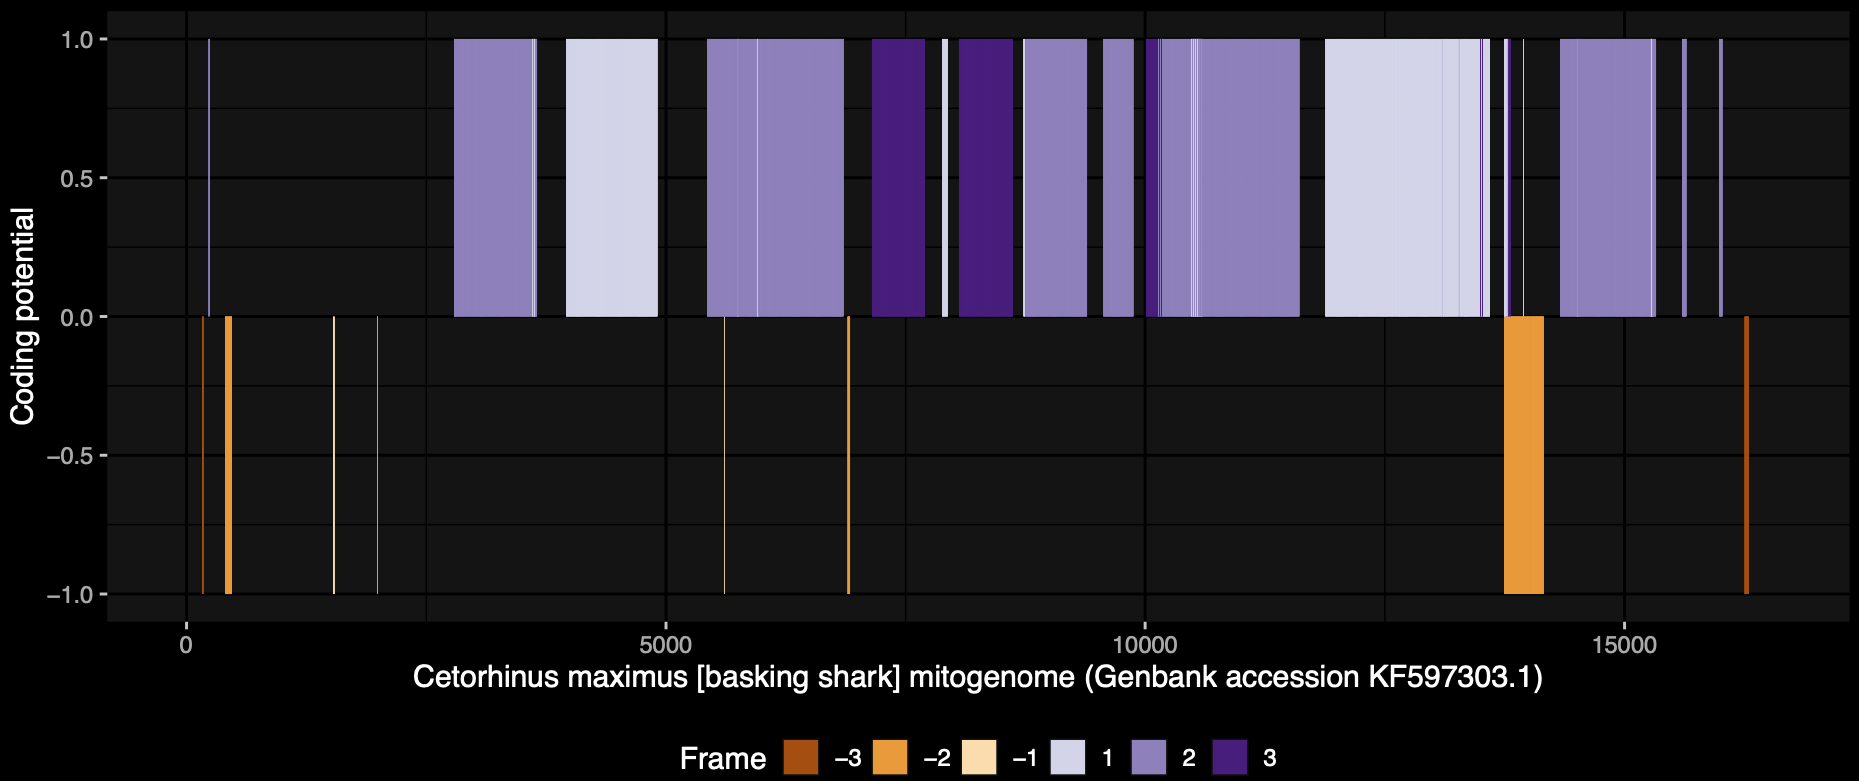
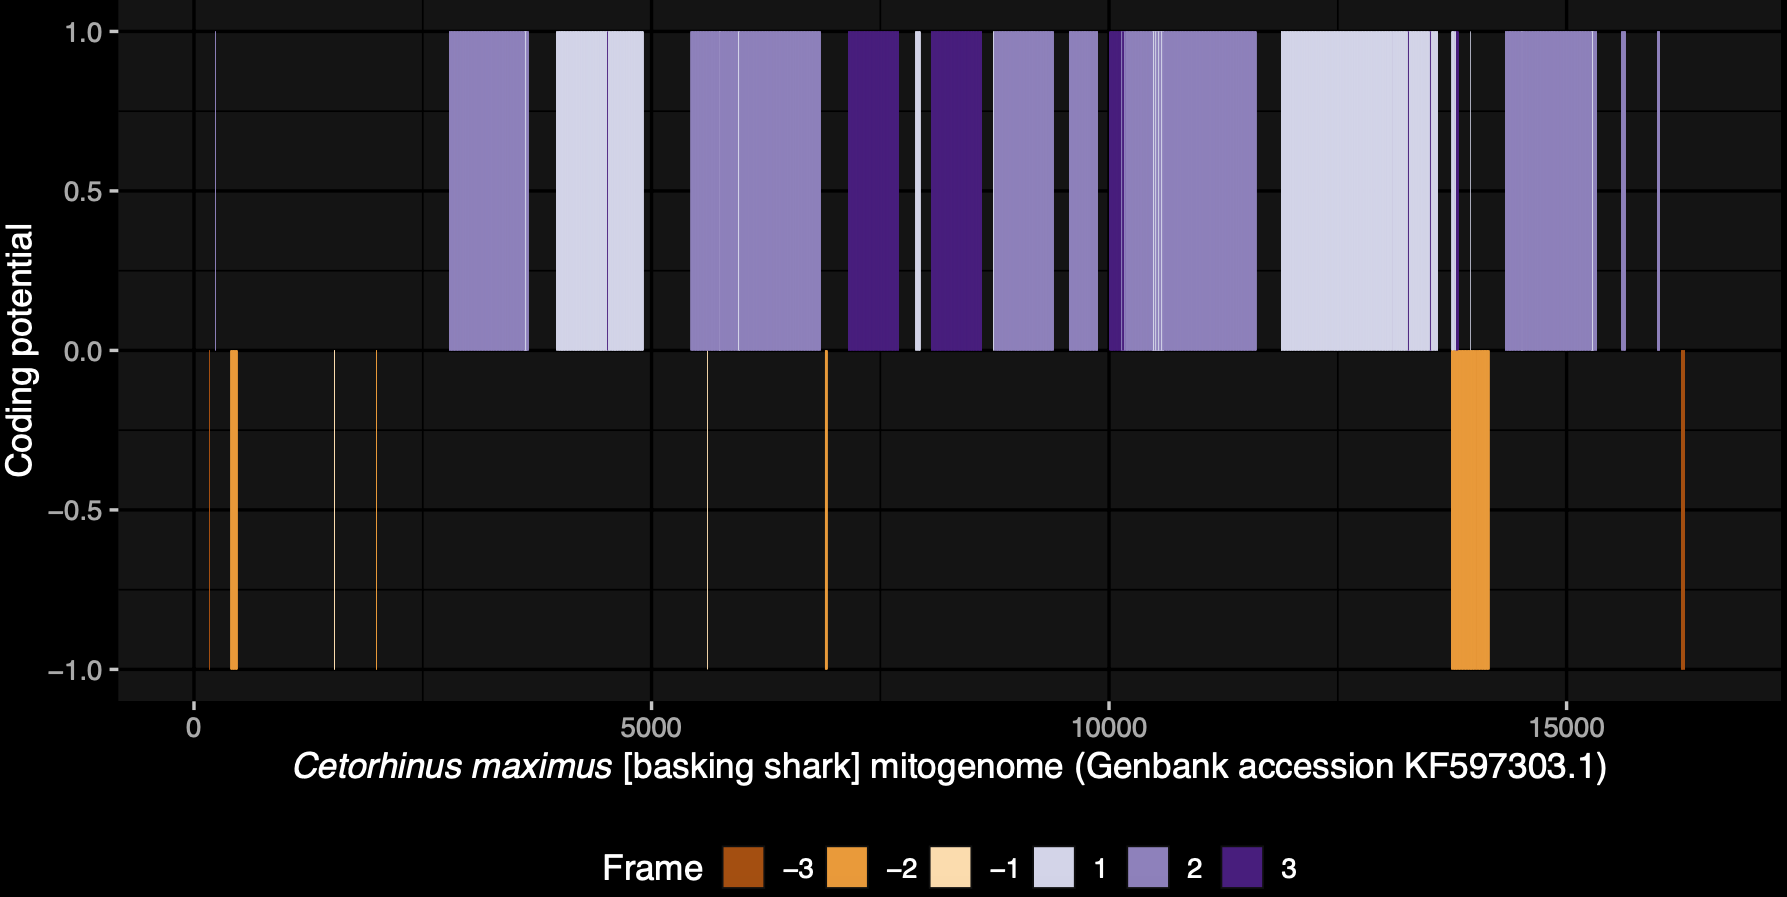
update sample plot

diff --git a/README.md b/README.md
@@ -216,17 +216,18 @@ This example predicted coding potential regions is depicted using -k 150 on C. m
 
 R code to generate similar plots
 <pre>
-##coding potential plots
+#coding potential plots
 
 library(ggplot2)
 library(ggdark)
 
-df <- read.table('/Users/rwarren/Documents/GitHub/peekseq/testdata/peekseq_v0.0.1-f_CEMA.fa.gz-k150-frameKmers.tsv', sep="\t", header = TRUE)
+df <- read.table('peekseq_v0.0.1-f_CEMA.fa.gz-k150-frameKmers.tsv', sep="\t", header = TRUE)
+my_x_title <- expression(paste(italic("Cetorhinus maximus"), " [basking shark] mitogenome (Genbank accession KF597303.1)"))
 
 p<-ggplot(df, aes(y=coding, x=position, fill = factor(frame))) +
   geom_col() + 
   scale_fill_manual(values = c("#b35806","#f1a340","#fee0b6","#d8daeb","#998ec3","#542788")) +
-  xlab("Cetorhinus maximus [basking shark] mitogenome (Genbank accession KF597303.1)") +ylim(-1,1)+ ylab("Coding potential") + dark_theme_gray(base_size = 14)  # Default
+  ylim(-1,1) + labs(x=my_x_title) + ylab("Coding potential") + dark_theme_gray(base_size = 14)  # Default
 p + theme(legend.position = "bottom") + guides(fill = guide_legend(title = "Frame", nrow = 1))
 </pre>
 
